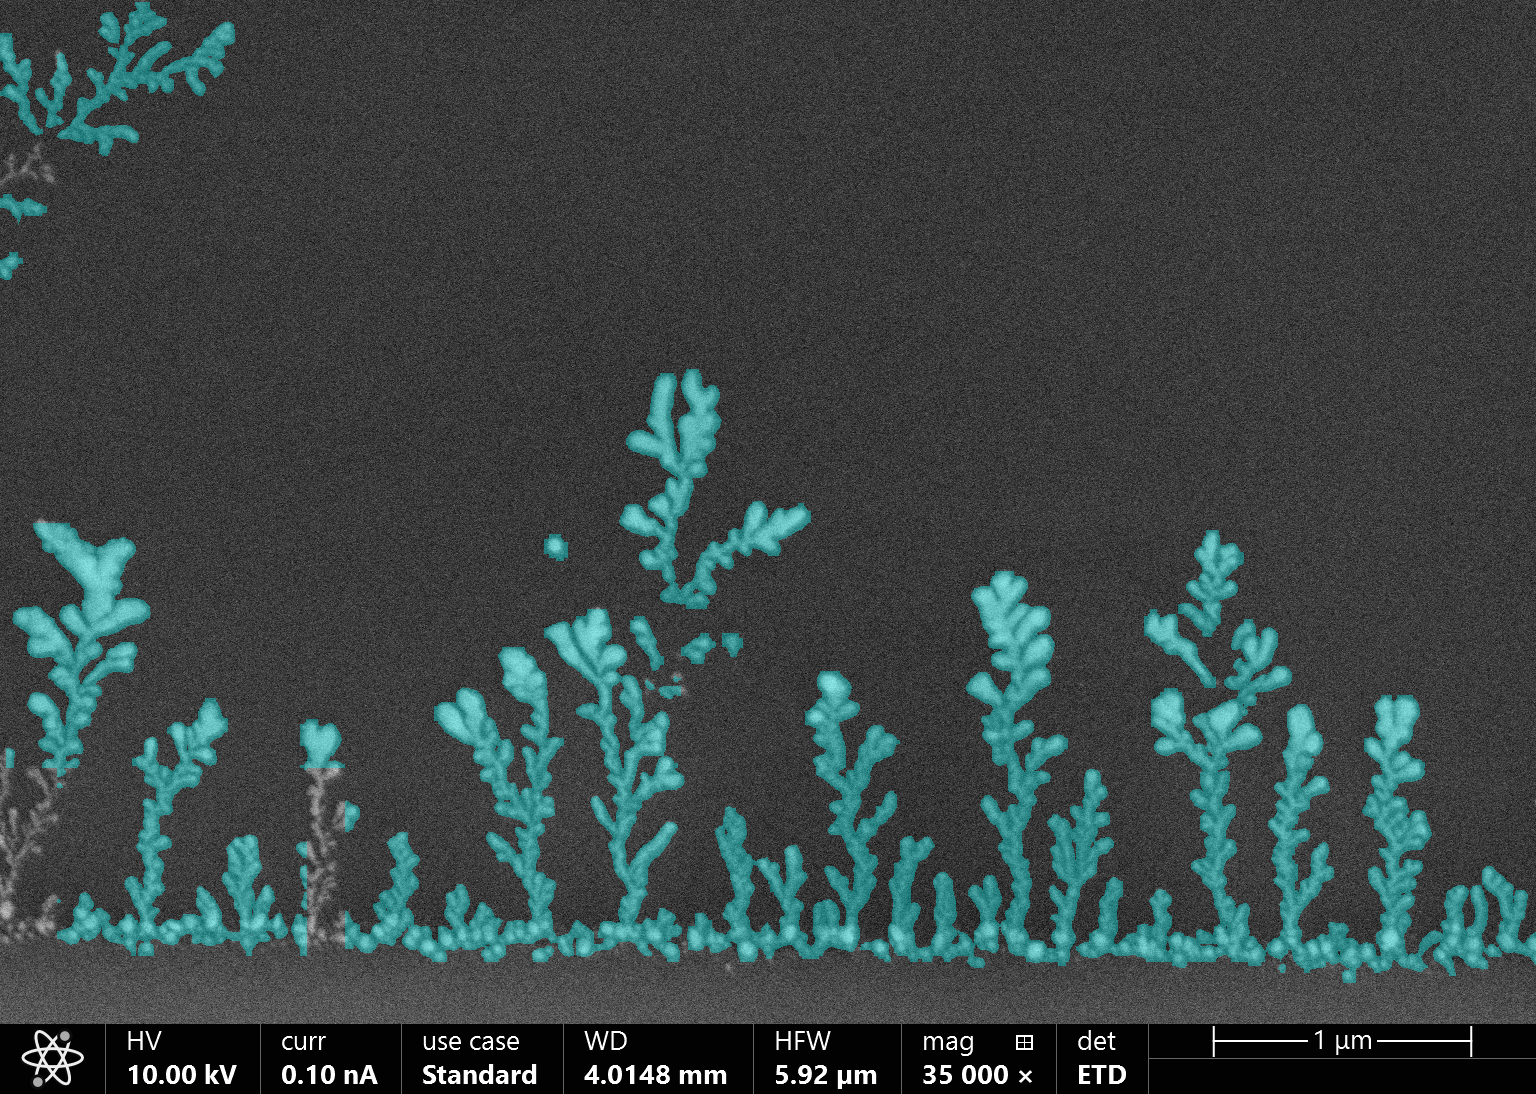
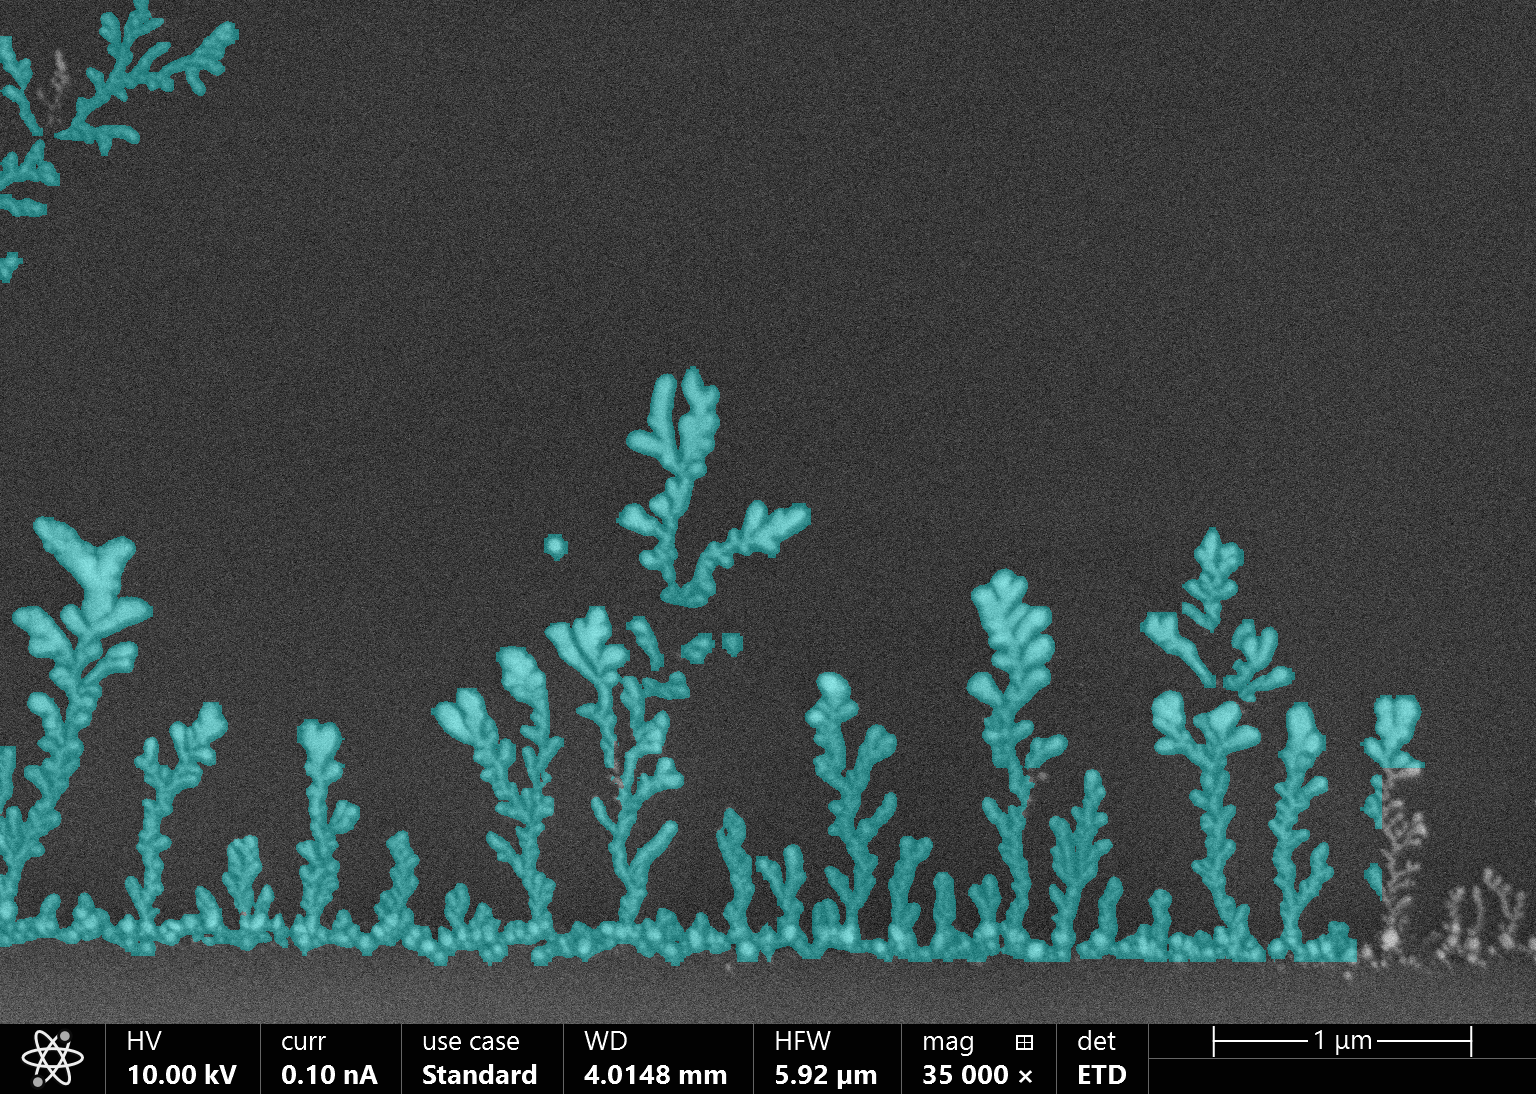
enhancments

diff --git a/SEMDendriteSegmenter.py b/SEMDendriteSegmenter.py
@@ -48,13 +48,6 @@ class SEMDendriteSegmenter:
 
         cut_pixels = height - overlay_start_row
         return max(0, min(cut_pixels, height - 1))
-    
-    def remove_overlay(self, img_gray: np.ndarray) -> np.ndarray:
-        """
-        Remove the bottom overlay from the input grayscale image.
-        """
-        cut = self.estimate_overlay_cut(img_gray, search_bottom_frac=0.35)
-        return img_gray[:-cut, :] if cut > 0 else img_gray
 
     def enhance_contrast_clahe(self, img_gray: np.ndarray,
                            clip_limit: float = 2.0,
@@ -366,8 +359,14 @@ class SEMDendriteSegmenter:
     def run_stages(self, img: np.ndarray):
         stages = {}
 
-        # 1) Remove overlay / metadata area
-        base = self.remove_overlay(img)
+        # 1) Cut the image into two physical pieces
+        cut = self.estimate_overlay_cut(img)
+        if cut > 0:
+            base = img[:-cut, :]
+            bottom_strip = img[-cut:, :] # Save the chopped text/scale bar for later!
+        else:
+            base = img.copy()
+            bottom_strip = None
         #stages["1_overlay_removed"] = base
 
         # 2) Histogram normalization
@@ -386,14 +385,14 @@ class SEMDendriteSegmenter:
         # 5) Dual Sauvola masks
         relaxed = self.threshold_sauvola_mask(den, window_size=21, k=0.08)
         relaxed = self.filter_connected_components(relaxed, min_area=4)
-        stages["5a_relaxed"] = relaxed
+        #stages["5a_relaxed"] = relaxed
 
         strict = self.threshold_sauvola_mask(den, window_size=21, k=0.15)
         strict = self.filter_connected_components(strict, min_area=6)
-        stages["5b_strict"] = strict
+        #stages["5b_strict"] = strict
 
         mask = self.filter_by_strong_overlap(relaxed, strict)
-        stages["5c_supported"] = mask
+        #stages["5c_supported"] = mask
 
         # 6) Morphological reconstruction
         marker = cv2.erode(mask, np.ones((3, 3), np.uint8), iterations=1)
@@ -412,6 +411,7 @@ class SEMDendriteSegmenter:
         clean = self.filter_connected_components(wiped, min_area=12)
         #stages["9_cc_filtered"] = clean
 
+        # 10) Edge lines removed
         clean = self.remove_wide_horizontal_bands_by_row_projection(
             clean,
             min_row_frac=0.6,
@@ -422,20 +422,47 @@ class SEMDendriteSegmenter:
         )
         #stages["11_edge_lines_removed"] = clean
 
-        # 12) Final cleanup
+        # 12) Final cleanup mask (cropped)
         clean = self.filter_connected_components(clean, min_area=16)
-        #stages["12_final_mask"] = clean
+        #stages["12_final_mask_cropped"] = clean
 
-        # 13) Skeleton
+        # 13) Skeleton (cropped)
         skel = self.skeletonize_mask(clean)
         skel = self.filter_skeleton_by_mask_thickness(
             clean, skel, min_dist=1.2, dilate_iters=200
         )
-        #stages["13_skeleton"] = skel
+        #stages["13_skeleton_cropped"] = skel
 
-        # 14) Overlays
-        stages["14_overlay_mask"] = self.overlay_mask(base, clean, color=(0, 0, 255), alpha=0.4)
-        #stages["15_overlay_skeleton"] = self.overlay_skeleton(base, skel, color=(0, 255, 0))
+        # 14) Overlays (cropped)
+        colored_base = self.overlay_mask(base, clean, color=(0, 0, 255), alpha=0.4)
+        #stages["14_overlay_cropped"] = colored_base
+        
+        #colored_base_skel = self.overlay_skeleton(base, skel, color=(0, 255, 0))
+        #stages["15_skeleton_overlay_cropped"] = colored_base_skel
+
+        # --- 16) GLUE EVERYTHING BACK TOGETHER ---
+        if bottom_strip is not None:
+            # Convert the saved bottom strip to BGR so the colors match
+            bottom_bgr = cv2.cvtColor(bottom_strip, cv2.COLOR_GRAY2BGR)
+            
+            # Glue them vertically!
+            final_visual = np.vstack((colored_base, bottom_bgr))
+            #final_visual_skel = np.vstack((colored_base_skel, bottom_bgr))
+            
+            # And for the evaluation script, pad the math mask with black
+            clean_full = cv2.copyMakeBorder(clean, 0, cut, 0, 0, cv2.BORDER_CONSTANT, value=0)
+            skel_full = cv2.copyMakeBorder(skel, 0, cut, 0, 0, cv2.BORDER_CONSTANT, value=0)
+        else:
+            final_visual = colored_base
+            #final_visual_skel = colored_base_skel
+            clean_full = clean
+            skel_full = skel
+
+        # Save the FINAL full-size images 
+        stages["12_final_mask"] = clean_full
+        #stages["13_skeleton"] = skel_full
+        stages["14_overlay_mask"] = final_visual
+        #stages["15_overlay_skeleton"] = final_visual_skel
 
         return stages
 
@@ -533,10 +560,46 @@ class SEMDendriteSegmenter:
             plt.tight_layout()
             plt.show()
 
+    def save_all_results(self, input_folder="dendrite_dataset/images/val", output_folder="runs/cv_out"):
+        """
+        Runs the CV pipeline on a folder of images and saves the masks and overlays.
+        """
+        # Create the output folders if they don't exist
+        os.makedirs(os.path.join(output_folder, "masks"), exist_ok=True)
+        os.makedirs(os.path.join(output_folder, "overlays"), exist_ok=True)
+        
+        folder = Path(input_folder)
+        image_paths = [p for p in folder.iterdir() if p.suffix.lower() in ['.png', '.jpg', '.jpeg', '.tif']]
+        
+        print(f"Processing and saving {len(image_paths)} images...")
+        
+        for path in image_paths:
+            # 1. Load and process
+            img = self.load_image(str(path))
+            stages = self.run_stages(img)
+            
+            # 2. Grab the final mask and overlay
+            # Make sure these keys match what you have in run_stages!
+            mask = stages["12_final_mask"] 
+            overlay = stages["14_overlay_mask"]
+            
+            # 3. Save them with the same name format YOLO uses
+            mask_path = os.path.join(output_folder, "masks", f"{path.stem}_mask.png")
+            cv2.imwrite(mask_path, mask)
+            
+            overlay_path = os.path.join(output_folder, "overlays", f"{path.stem}_overlay.png")
+            cv2.imwrite(overlay_path, overlay)
+            
+        print(f"Done! Masks and overlays saved to {output_folder}")
+
 segmenter = SEMDendriteSegmenter()
 
 #img = segmenter.load_image("dendrite_dataset/images/train/70nm_R_50nm_pitch_ETD_012.png")
 
 #stages = segmenter.run_stages(img)
 #segmenter.show_stages(stages, save=False, filename="debug_stages.png")
-segmenter.plot_all_overlays(segmenter, folder_path="dendrite_dataset/images/train/")  
+segmenter.save_all_results(
+    input_folder=r"dendrite_dataset\images\val", 
+    output_folder=r"runs\segment\cv_out"
+)
+#segmenter.plot_all_overlays(segmenter, folder_path="dendrite_dataset/images/val/")  

diff --git a/evaluate.py b/evaluate.py
@@ -1,0 +1,64 @@
+import os
+import cv2
+import numpy as np
+from pathlib import Path
+
+def calculate_metrics(gt_folder, pred_folder):
+    gt_paths = [p for p in Path(gt_folder).iterdir() if p.suffix.lower() in ['.png', '.jpg', '.tif']]
+    
+    total_tp = 0
+    total_fp = 0
+    total_fn = 0
+    
+    for gt_path in gt_paths:
+        # Load Ground Truth
+        gt_mask = cv2.imread(str(gt_path), cv2.IMREAD_GRAYSCALE)
+        
+        pred_path = os.path.join(pred_folder, f"{gt_path.stem}_mask.png")
+        
+        if not os.path.exists(pred_path):
+            # Fallback just in case it's named exactly the same
+            pred_path = os.path.join(pred_folder, gt_path.name)
+            if not os.path.exists(pred_path):
+                print(f"Skipping {gt_path.name} - no matching prediction found.")
+                continue
+                
+        pred_mask = cv2.imread(pred_path, cv2.IMREAD_GRAYSCALE)
+        
+        # Resize prediction to match Ground truth just in case
+        if gt_mask.shape != pred_mask.shape:
+            pred_mask = cv2.resize(pred_mask, (gt_mask.shape[1], gt_mask.shape[0]), interpolation=cv2.INTER_NEAREST)
+
+        # Binarize masks (0 or 1)
+        gt_bin = (gt_mask > 127).astype(np.uint8)
+        pred_bin = (pred_mask > 127).astype(np.uint8)
+        
+        # Calculate True Positives, False Positives, False Negatives
+        tp = np.logical_and(pred_bin == 1, gt_bin == 1).sum()
+        fp = np.logical_and(pred_bin == 1, gt_bin == 0).sum()
+        fn = np.logical_and(pred_bin == 0, gt_bin == 1).sum()
+        
+        total_tp += tp
+        total_fp += fp
+        total_fn += fn
+
+    # Calculate final metrics
+    epsilon = 1e-7 # Prevent division by zero
+    precision = total_tp / (total_tp + total_fp + epsilon)
+    recall = total_tp / (total_tp + total_fn + epsilon)
+    iou = total_tp / (total_tp + total_fp + total_fn + epsilon)
+    
+    return iou * 100, precision * 100, recall * 100
+
+if __name__ == "__main__":
+    GT_DIR = r"dendrite_dataset\labels_masks\val"
+    YOLO_PRED_DIR = r"runs\segment\pred_tiled_out_2\masks"
+    CV_PRED_DIR = r"runs\segment\cv_out\masks" 
+    
+    print("--- YOLO Model Results ---")
+    iou_y, prec_y, rec_y = calculate_metrics(GT_DIR, YOLO_PRED_DIR)
+    print(f"IoU: {iou_y:.2f}% | Precision: {prec_y:.2f}% | Recall: {rec_y:.2f}%\n")
+    
+    print("--- Classic CV Results ---")
+    iou_c, prec_c, rec_c = calculate_metrics(GT_DIR, CV_PRED_DIR)
+    print(f"IoU: {iou_c:.2f}% | Precision: {prec_c:.2f}% | Recall: {rec_c:.2f}%")

diff --git a/make_gt_masks.py b/make_gt_masks.py
@@ -1,0 +1,66 @@
+import os
+import cv2
+import numpy as np
+from pathlib import Path
+
+# This script converts YOLO-format text labels into binary mask images.
+# Each polygon defined in the YOLO labels is drawn as a filled white shape on a black background,
+# creating a mask that can be used as ground truth for segmentation tasks.
+
+def convert_yolo_to_masks(images_folder, labels_folder, output_folder):
+    os.makedirs(output_folder, exist_ok=True)
+    
+    images = [p for p in Path(images_folder).iterdir() if p.suffix.lower() in ['.png', '.jpg', '.jpeg', '.tif']]
+    print(f"Found {len(images)} images. Drawing Ground Truth masks...")
+    
+    for img_path in images:
+        # Load image just to get its exact height and width
+        img = cv2.imread(str(img_path))
+        if img is None:
+            continue
+        H, W = img.shape[:2]
+        
+        # Create a blank black mask
+        mask = np.zeros((H, W), dtype=np.uint8)
+        
+        # Find the matching text label file
+        label_path = os.path.join(labels_folder, img_path.stem + ".txt")
+        
+        if os.path.exists(label_path):
+            with open(label_path, 'r') as f:
+                lines = f.readlines()
+                
+            for line in lines:
+                parts = line.strip().split()
+                if len(parts) < 3:
+                    continue
+                    
+                # Skip the class ID (parts[0]), take the rest as coordinates
+                coords = np.array([float(x) for x in parts[1:]])
+                
+                # Reshape into pairs of (x, y)
+                pts = coords.reshape(-1, 2)
+                
+                # Un-normalize (multiply x by Width, y by Height)
+                pts[:, 0] *= W
+                pts[:, 1] *= H
+                
+                # Convert to integers so OpenCV can draw them
+                pts = pts.astype(np.int32)
+                
+                # Draw the filled polygon in white (255)
+                cv2.fillPoly(mask, [pts], 255)
+        
+        # Save the mask
+        out_path = os.path.join(output_folder, img_path.stem + ".png")
+        cv2.imwrite(out_path, mask)
+        
+    print(f"Done! Ground Truth masks saved to: {output_folder}")
+
+if __name__ == "__main__":
+    # --- UPDATE THESE PATHS IF NEEDED ---
+    IMAGES_DIR = r"dendrite_dataset\images\val"
+    LABELS_DIR = r"dendrite_dataset\labels\val"
+    OUTPUT_DIR = r"dendrite_dataset\labels_masks\val"
+    
+    convert_yolo_to_masks(IMAGES_DIR, LABELS_DIR, OUTPUT_DIR)

diff --git a/predict_tile.py b/predict_tile.py
@@ -118,7 +118,7 @@ def overlay_mask(img_bgr: np.ndarray, mask: np.ndarray, alpha=0.35):
 def main():
     # ---- EDIT THESE PATHS ----
     weights = r"runs\segment\yolo26_dendrite_tiled_v1\weights\best.pt"
-    source_folder = r"dendrite_dataset_tiled\images\val"
+    source_folder = r"dendrite_dataset\images\val"
     out_dir = r"runs\segment\pred_tiled_out_2"
     # --------------------------
 
